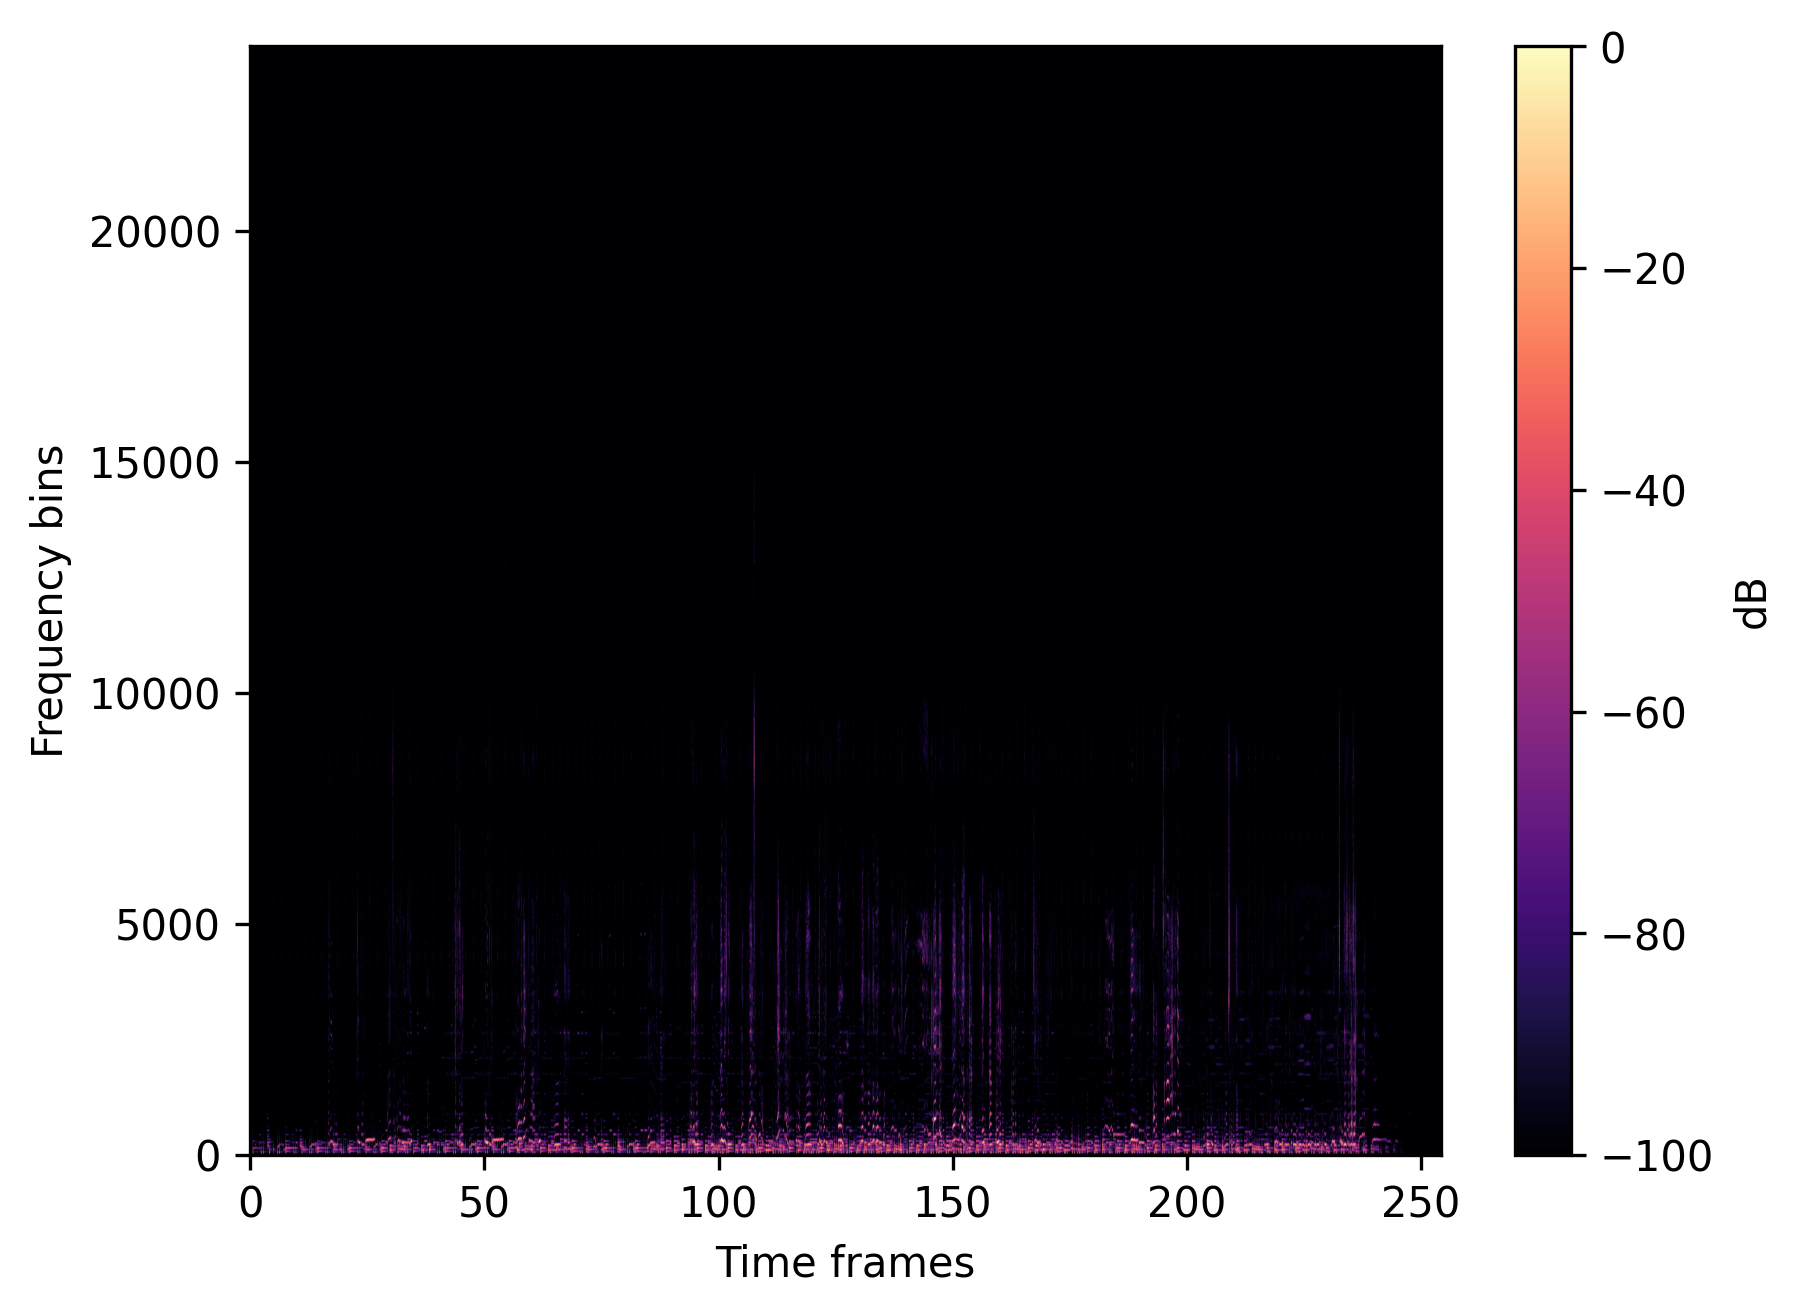
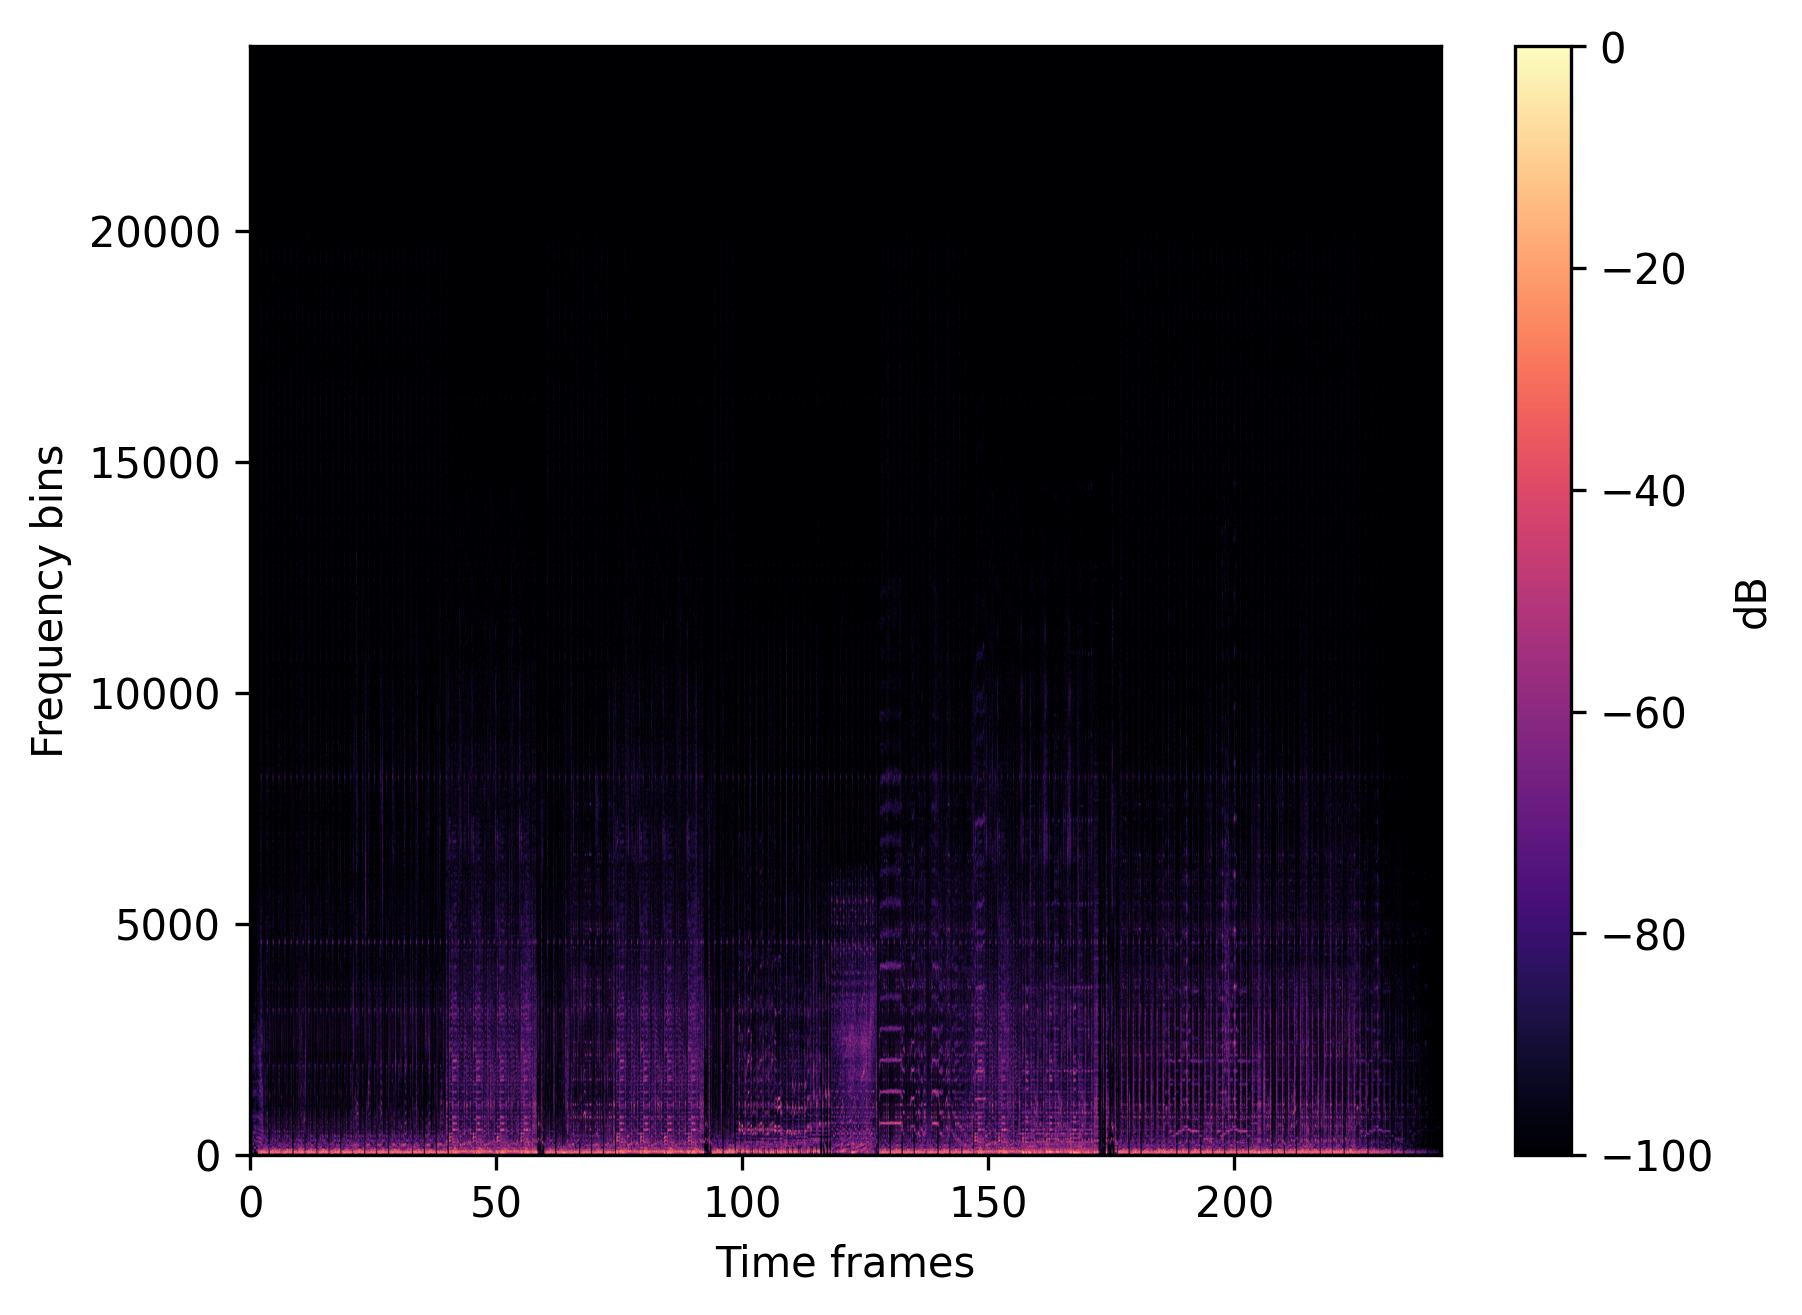
Creates and saves a tempogram of the full spectrum range

Changed region(s): [[0.1243, 0.53, 0.808, 0.9354]]

diff --git a/BPM_estimation_proj/visualization.py b/BPM_estimation_proj/visualization.py
@@ -17,3 +17,19 @@ def display_spectrogram(spectrum, hop_time):
     plt.xlabel("Time frames")
     plt.ylabel("Frequency bins")
     plt.savefig("BPM_estimation_proj/charts/Spectrogram.png", dpi = 300, bbox_inches = "tight")
+    plt.clf()
+
+def display_tempogram(tempogram, bpm_scale):
+    bpm_scale = numpy.arange(bpm_scale.shape[0]) + 26
+    time_scale = numpy.arange(tempogram.shape[1])
+    plt.imshow(
+        tempogram,
+        origin = "lower",
+        aspect = "auto",
+        extent = [time_scale[0], time_scale[-1], bpm_scale[0], bpm_scale[-1]]
+        )
+    plt.colorbar(label='tempo strength')
+    plt.xlabel("Time frames")
+    plt.ylabel("lag bins")
+    plt.savefig("BPM_estimation_proj/charts/Tempogram.png", dpi = 300, bbox_inches = "tight")
+    plt.clf()

diff --git a/BPM_estimation_proj/main.py b/BPM_estimation_proj/main.py
@@ -5,7 +5,7 @@ import librosa
 import matplotlib.pyplot as plt
 from spectrogram import spectrogram
 from frequency_ranges import freq_range
-from visualization import display_spectrogram
+from visualization import display_spectrogram, display_tempogram
 from novelty_curve import process_band
 from BPM_estimation import auto_correlation, harmonic_scoring, tempogram
 import numpy
@@ -18,7 +18,7 @@ def main():
     #the hop length signifies the number of frames each frame length is pushed. For example [1,2,3,4,5,6,7,8] frame lenth 4 hop length 2 returns
     #[[1,2,3,4], [3,4,5,6], [5,6,7,8]]. librosa.util.frame returns this but instead transposed for convenience 
     
-    path = "./music/simply_beautiful.mp3"
+    path = "./music/speed_demon.mp3"
     y, sample_rate = librosa.load(path, sr=None)
     print(sample_rate)
     frame_len =  int(sample_rate * .05)
@@ -48,6 +48,8 @@ def main():
     lag_low = int(60 / hop_time / bpm_high)
     lag_high = int(60 / hop_time / bpm_low)
 
+    print("lag low/bpm high:", lag_low, "/", bpm_high, "|| lag high/bpm low:", lag_high, " / ", bpm_low)
+
     #Creates and array of bpm buckets correlated to each lag value within the range
     bpm_graph = numpy.divide(60, numpy.multiply(numpy.arange(lag_low, lag_high + 1),hop_time))
 
@@ -70,6 +72,14 @@ def main():
     print("master harm score: ", master_harmonic_scoring, "\nsub bass harm score: ", sub_bass_harmonic_scoring, "\nbass harm score", bass_harmonic_scoring)
 
     master_tempogram, master_highscore = tempogram(master_curve, hop_time, lag_low, lag_high)
+    master_tempogram_bpm = bpm_graph[master_highscore]
+    sub_bass_tempogram, sub_bass_highscore = tempogram(sub_bass_curve, hop_time, lag_low, lag_high)
+    sub_bass_tempogram_bpm = bpm_graph[sub_bass_highscore]
+    bass_tempogram, bass_highscore = tempogram(bass_curve, hop_time, lag_low, lag_high)
+    bass_tempogram_bpm = bpm_graph[bass_highscore]
+
+    print("master tempogram score: ", master_tempogram_bpm, "\nsub bass tempogram score: ", sub_bass_tempogram_bpm, "\n bass tempogram score: ", bass_tempogram_bpm)
+    display_tempogram(master_tempogram, bpm_graph)
     
 
 main()

diff --git a/BPM_estimation_proj/BPM_estimation.py b/BPM_estimation_proj/BPM_estimation.py
@@ -33,7 +33,6 @@ def tempogram(onset, hop, laglow, laghigh):
     score = []
     win_size = int(4/hop)
     win_hop = int(win_size/4)
-    print(win_size, " ", win_hop, " ", len(onset))
     for k in range(0, len(onset)-win_size+1, win_hop):
         win =  onset[k : k + win_size]
         corr = auto_correlation(win, laglow, laghigh)
@@ -41,6 +40,6 @@ def tempogram(onset, hop, laglow, laghigh):
             score = numpy.zeros(len(corr))    
         score[harmonic_scoring(corr,laglow,laghigh)] += 1
         tempogram.append(corr)
-    print(score)
     highscore = numpy.argmax(score)
+    tempogram = numpy.array(tempogram).T
     return tempogram, highscore

diff --git a/BPM_estimation_proj/spectrogram.py b/BPM_estimation_proj/spectrogram.py
@@ -10,4 +10,4 @@ def spectrogram(audio):
         fft_audio_frame =  numpy.fft.rfft(windowed_audio_frame)
         spectrum.append(numpy.abs(fft_audio_frame) ** 2)
     spectrum = numpy.array(spectrum).T
-    return(spectrum)
+    return spectrum